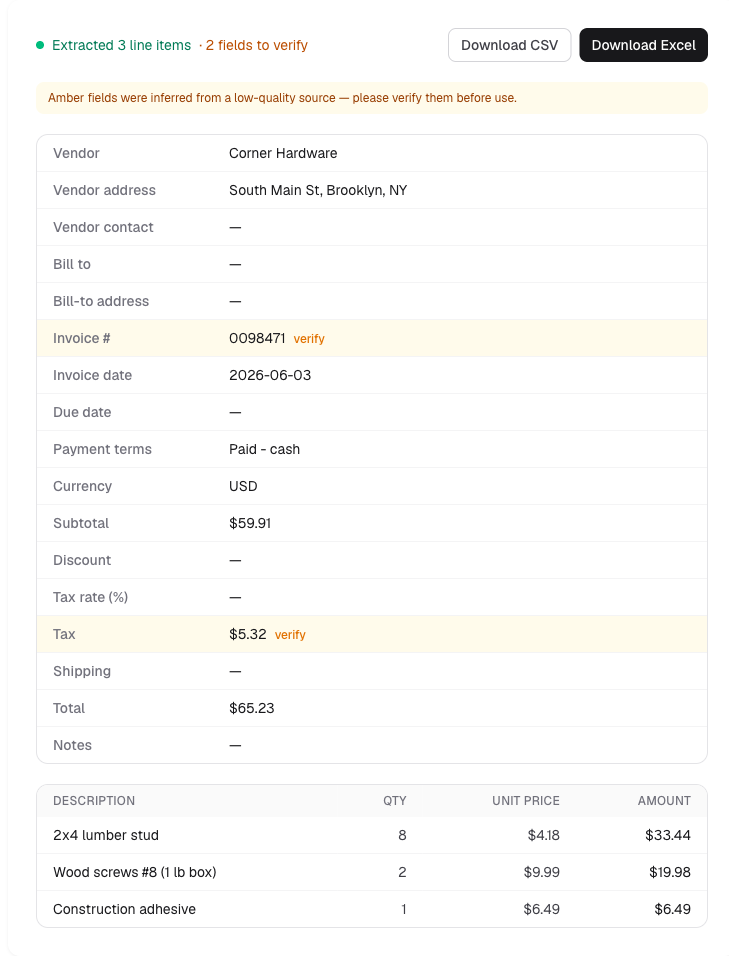
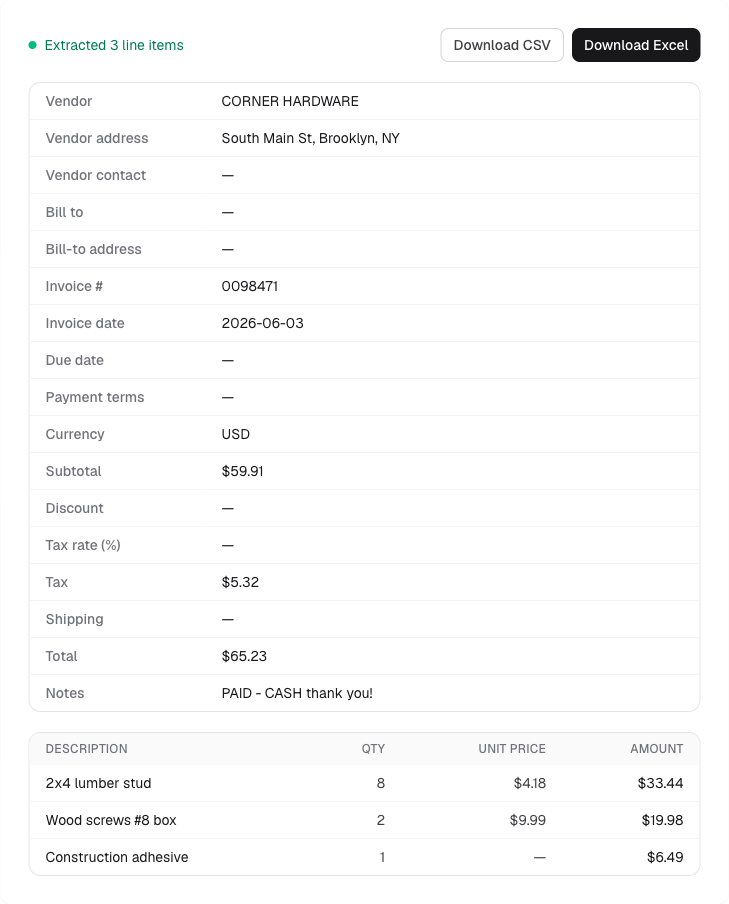
Replace receipt example with a genuinely degraded phone photo
The old "scanned" receipt was a clean digital render, so the confidence flags
landed on legible fields and looked arbitrary. Replace it with a realistically
degraded phone photo (perspective, shadow, blur, noise, smudged receipt number
and tax) generated reproducibly by scripts/make-receipt-photo.sh.

Across ~16 live runs the model reads every field correctly but its low-confidence
flags are noisy and sometimes land on legible fields — so per the gate, the example
now shows the honest, reliable behavior: a hard photo extracted correctly, no staged
flags. README's confidence claim softened to a best-effort caveat.

Claude-Session: https://claude.ai/code/session_01GLE9yceUQ8UQqWNvSTV9hz

diff --git a/lib/samples.ts b/lib/samples.ts
@@ -81,13 +81,16 @@ export const SAMPLES: Sample[] = [
   },
   {
     id: "scanned",
-    label: "Scanned / photographed",
-    blurb: "A photo of a printed receipt — shows graceful 'please verify' flags.",
-    sourceFile: "/samples/handwritten-receipt.pdf",
+    label: "Photographed receipt",
+    blurb: "A skewed, shadowed phone photo of a paper receipt — still read correctly.",
+    sourceFile: "/samples/receipt-photo.jpg",
+    // Mirrors a real extraction of the degraded photo: every field read correctly
+    // despite the smudging. Flags are model-dependent and best-effort, so we don't
+    // stage them here.
     result: {
       isInvoice: true,
       documentType: "receipt",
-      vendorName: "Corner Hardware",
+      vendorName: "CORNER HARDWARE",
       vendorAddress: "South Main St, Brooklyn, NY",
       vendorContact: null,
       billToName: null,
@@ -98,8 +101,8 @@ export const SAMPLES: Sample[] = [
       currency: "USD",
       lineItems: [
         { description: "2x4 lumber stud", quantity: 8, unitPrice: 4.18, amount: 33.44 },
-        { description: "Wood screws #8 (1 lb box)", quantity: 2, unitPrice: 9.99, amount: 19.98 },
-        { description: "Construction adhesive", quantity: 1, unitPrice: 6.49, amount: 6.49 },
+        { description: "Wood screws #8 box", quantity: 2, unitPrice: 9.99, amount: 19.98 },
+        { description: "Construction adhesive", quantity: 1, unitPrice: null, amount: 6.49 },
       ],
       subtotal: 59.91,
       taxRate: null,
@@ -107,10 +110,9 @@ export const SAMPLES: Sample[] = [
       shipping: null,
       discount: null,
       total: 65.23,
-      paymentTerms: "Paid - cash",
-      notes: null,
-      // Scanned source → the model honestly flags what it inferred.
-      lowConfidenceFields: ["taxAmount", "invoiceNumber"],
+      paymentTerms: null,
+      notes: "PAID - CASH\nthank you!",
+      lowConfidenceFields: [],
     },
   },
 ];

diff --git a/README.md b/README.md
@@ -22,16 +22,19 @@ This tool reads invoices the way a person does — so a layout it has never seen
 | --- | --- |
 | ![Clean vendor invoice input](docs/screenshots/input-invoice.png) | ![Extracted result](docs/screenshots/result.png) |
 
-**2. A scanned receipt — where it flags uncertainty for review**
+**2. A photographed receipt — a genuinely messy input**
 
-The harder, real-world case. On a low-quality scan the model extracts what it can and marks
-the fields it isn't sure about with a "verify" flag — here, the receipt number and the tax —
-instead of silently guessing. That's the difference between a parlor trick and something a
-business can actually trust with its books.
+The harder, real-world case: a hurried phone photo — skewed, shadowed, with the receipt
+number and tax amount visibly smudged. The model still reads every field correctly, and
+leaves anything it genuinely can't make out blank rather than guessing.
 
-| Input: scanned / photographed receipt | Output: extracted data, low-confidence fields flagged |
+| Input: photographed receipt | Output: every field extracted correctly |
 | --- | --- |
-| ![Scanned receipt input](docs/screenshots/receipt-input.png) | ![Extracted result with verify flags](docs/screenshots/receipt-result.png) |
+| ![Photographed receipt input](public/samples/receipt-photo.jpg) | ![Correct extraction of the photographed receipt](docs/screenshots/receipt-result.png) |
+
+It will also flag fields it's unsure about for review, but that's a best-effort signal from
+the model, not a guarantee — so the rule of thumb stays: spot-check the numbers before they
+hit accounting.
 
 *Real output from the running tool — upload a file, get the extracted table, download CSV/Excel.*
 
@@ -43,8 +46,9 @@ business can actually trust with its books.
 3. **Validate** — the model's response is forced into a [Zod schema](lib/schema.ts)
    (vendor, bill-to, dates, currency, line items, subtotal/tax/total, terms). Output that
    doesn't fit the schema is rejected and retried, so the shape is always predictable.
-4. **Review** — fields the model wasn't confident about (e.g. a blurry scan) are flagged
-   in the UI for a human to verify, instead of being silently guessed.
+4. **Review** — the model flags fields it's unsure about for a human to verify (a
+   best-effort, model-dependent signal), and leaves anything it genuinely can't read blank
+   rather than guessing.
 5. **Export** — one click to CSV or a formatted `.xlsx`.
 
 ## Reliability choices
@@ -53,8 +57,10 @@ The hard part of a tool people actually trust is the unhappy path. This one:
 
 - **Constrains output to a schema** (`generateObject` + Zod) so downstream code always gets
   the same shape, with numbers as numbers and dates normalized.
-- **Surfaces uncertainty** via a `lowConfidenceFields` list the model populates — the UI
-  shows those values in amber with a "verify" tag rather than presenting a guess as fact.
+- **Surfaces uncertainty (best-effort)** — the model can populate a `lowConfidenceFields`
+  list, shown in amber with a "verify" tag, to point a reviewer at anything it wasn't sure
+  about. It's a model-dependent signal, not a guarantee — and unreadable fields are left
+  blank rather than guessed.
 - **Handles non-invoices** — upload a resume or a letter and it says so (`isInvoice: false`)
   instead of returning garbage.
 - **Guards the endpoint** — per-IP rate limiting, an 8 MB size cap, and a PDF/PNG/JPG